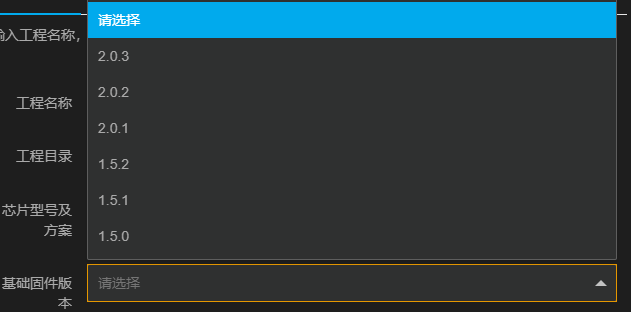
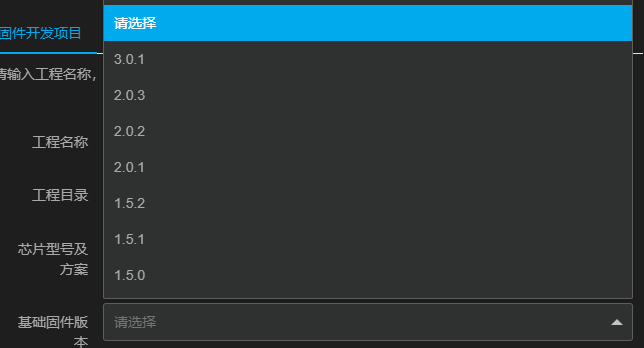
edit base_config.md

diff --git a/docs/guides/firmware/base_config.md b/docs/guides/firmware/base_config.md
@@ -1,10 +1,8 @@
 ---
 id: firmware_base_config
-title: 入门调优与自动调优
+title: CSK项目基础配置
 slug: /guides/firmware/base_config
 ---
-
-# CSK项目基础配置
 
 :::note
 
@@ -12,11 +10,11 @@ slug: /guides/firmware/base_config
 
 阅读本文后，你将了解：
 
-- 如何选择合适的语音芯片方案
+- 如何选择合适的语音芯片方案。
 
-- 如何创建语音芯片方案的固件开发项目
+- 如何创建语音芯片方案的固件开发项目。
 
-- 理解基础配置项，并按需求完成配置
+- 理解基础配置项，并按需求完成配置。
 
 :::
 
@@ -83,14 +81,12 @@ slug: /guides/firmware/base_config
 
 ![](./files/4002base.png)
 
-| 基础固件版本 | 说明 |
-| ------------ | ---- |
-| 2.0.3        |      |
-| 2.0.2        |      |
-| 2.0.1        |      |
-| 1.5.2        |      |
-| 1.5.1        |      |
-| 1.5.0        |      |
+| 基础固件版本 | 说明                                                         |
+| ------------ | ------------------------------------------------------------ |
+| 3.0.1        |                                                              |
+| 2.0.3        | 产测程序增加对ES7243E的支持。                                |
+| 2.0.2        | 修改产测模式的gpio控制方式，检查完成后，拉高相关gpio，使其亮灯；<br>增加app目录，以及通用回调hook，及其模板，支持LStudio2.0的新功能。 |
+| 2.0.1        | 修复自定义串口功能无法正常使用的问题；<br>修复自定义串口情况下，还会发送标准串口协议信息的问题。 |
 
 - 3001基础固件版本
 
@@ -101,33 +97,33 @@ slug: /guides/firmware/base_config
 | 1.5.2        |      |
 | 1.5.1        |      |
 
-**【版型模板】**：指可供烧录语音固件的语音方案硬件模组。部分版型模板是聆思与合作方案商定制的标准模块，不对外提供，方案商如安顺康、岚正、海克莱特等。
+**【板型模板】**：指可供烧录语音固件的语音方案硬件模组。部分板型模板是聆思与合作方案商定制的标准模块，不对外提供，方案商有安顺康、岚正、海克莱特等等。
 
-- 3002版型模板
+- 3002板型模板
 
 ![](./files/3002model.png)
 
-| 版型模板       | 说明                                                         |
+| 板型模板       | 说明                                                         |
 | -------------- | ------------------------------------------------------------ |
 | ASK-ES7243E    | 硬件型号为 **安顺康CSK3002纯离线标准模组** （CSK3002+ES7243E）。 |
 | LZ-ES7243E     | 硬件型号为 **岚正CSK3002纯离线标准模组** （CSK3002+ES7243E）。 |
 | 聆思开发板v1.0 | 硬件型号为 **LSKit开发套件** （搭配CSK3002纯离线核心模组）。 |
 
-- 4002NC版型模板
+- 4002NC板型模板
 
 ![](./files/4002ncmodel.png)
 
-| 版型模板         | 说明                                                         |
+| 板型模板         | 说明                                                         |
 | ---------------- | ------------------------------------------------------------ |
 | HK-ES7210-NC-OLD | 硬件型号为 **海克莱特降噪模组的硬件型号**旧版本（CSK4002+ES7210）。 |
 | HK-ES7210-NC     | 硬件型号为 **海克莱特降噪模组的硬件型号**（CSK4002+ES7210）。 |
 | 聆思公板NC       | 硬件型号为 **奥克斯纯离线模组** （CSK4002+NAU85L40）。       |
 
-- 4002版型模板
+- 4002板型模板
 
 ![](./files/4002model.png)
 
-| 版型模板          | 说明                                                         |
+| 板型模板          | 说明                                                         |
 | ----------------- | ------------------------------------------------------------ |
 | ES7243E           | 硬件型号为 **招商信息CSK4002纯离线模组**（CSK4002+ES7243E）。 |
 | ES7210            | 硬件型号为 **CSK4002纯离线标准模组** (CSK4002 + ES7210)。    |
@@ -136,11 +132,11 @@ slug: /guides/firmware/base_config
 | 聆思离在线公版2.0 | 硬件型号为 **聆思第二代EVB离在线公板**（黑色）。             |
 | 聆思公板          | 硬件型号为 **奥克斯纯离线模组** (CSK4002 + NAU85L40)。       |
 
-- 3001版型模板
+- 3001板型模板
 
 ![](./files/3001model.png)
 
-| 版型模板    | 说明                                                         |
+| 板型模板    | 说明                                                         |
 | ----------- | ------------------------------------------------------------ |
 | LZ-ES7243E  | 硬件型号为 **岚正CSK3002纯离线标准模组** (CSK3002+ES7243E)。 |
 | ASK-ES7243E | 硬件型号为 **安顺康CSK3002纯离线标准模组** (CSK3002+ES7243E)。 |
@@ -169,7 +165,7 @@ slug: /guides/firmware/base_config
 
 - 【芯片型号及方案】：显示创建项目时选择的芯片型号及方案。
 - 【基础固件版本】：显示创建项目时选择的基础固件版本。
-- 【版型模板】：显示创建项目时选择的版型模板。
+- 【板型模板】：显示创建项目时选择的板型模板。
 - 【降噪场景】：默认选择通用场景，适合客卧、办公室等常见场景。
 
 ![](./files/base_set.png)
@@ -178,22 +174,22 @@ slug: /guides/firmware/base_config
 
 - 【麦克风类型】：支持选择模拟麦克风和数字麦克风。
 
+| 麦克风类型 | 说明                                                         |
+| ---------- | ------------------------------------------------------------ |
+| 模拟麦克风 | 分为驻极体麦克风和模拟硅麦克风，可根据结构设计和成本灵活选择。 |
+| 数字麦克风 | 最大的优势是信号抗干扰能力强。CSK芯片支持PDM数字麦克风。     |
 
+综合考虑下，我们推荐使用模拟驻极体麦克风，驻极体麦克风拥有较高的信噪比，方便安装且价格相对便宜。
 
 - 【麦克风间距】：两个麦克风之间的距离，麦克风间距的设置范围是35mm至110mm。
 
 ![](./files/micro_phone.png)
 
-<<<<<<< HEAD
 | 麦克风距离         | 说明                                                         |
 | ------------------ | ------------------------------------------------------------ |
 | 35 或 110          | 当麦克风间距为35mm 或110mm时，语音交互的效果最好。           |
 | (35, 110)          | 当麦克风间距在35mm和110mm之间时，语音交互效果会受到一定影响。 |
 | (0, 35)∪(110,  +∞) | 当麦克风间距小于35mm，或大于110mm，语音交互效果很难保障。    |
-=======
-<!-- ![](./files/mirco_set.png) -->
->>>>>>> 4e4c51ae1a82521f077ad4232e432d9a504d1d4f
-
 ### 发音人配置
 
 - 【发音人】：可以选择不同性别、不同风格、不同语言的发音人。推荐你选择叶子（普通话）、中村（日语）、Catherine（英语）作为发音人。
@@ -221,7 +217,7 @@ slug: /guides/firmware/base_config
 
 - 【识别持续时间】：唤醒设备后保持识别状态的时间。如设备在规定的时间内未收到有效的语音请求，设备会退出识别状态。如需再次发起请求，请重新唤醒。
 - 【交互指令】：语音硬件模组对外发送指令。指令包括：
-  - CSK通用指令：聆思智能制定的标准指令，通过 **UART** 进行输出。需要在上位机适配聆思智能CSK芯片发送的指令。指令详情请参考：*这里是一条链接*。
+  - CSK通用指令：聆思智能制定的标准指令，通过 **UART** 进行输出。需要在上位机适配聆思智能CSK芯片发送的指令。
   - 自定义指令：在上位机已支持特定指令的情况下，指定聆思智能CSK芯片输出对应指令，上位机无需进行二次开发。
 - 【交互方式】：目前自定义指令支持 **UART** 和 **PWM** 两种传输方式。
   - **UART** 指令可选择发送的波特率和串口指令格式。请根据 **UART** 对接的芯片情况进行配置选择。
